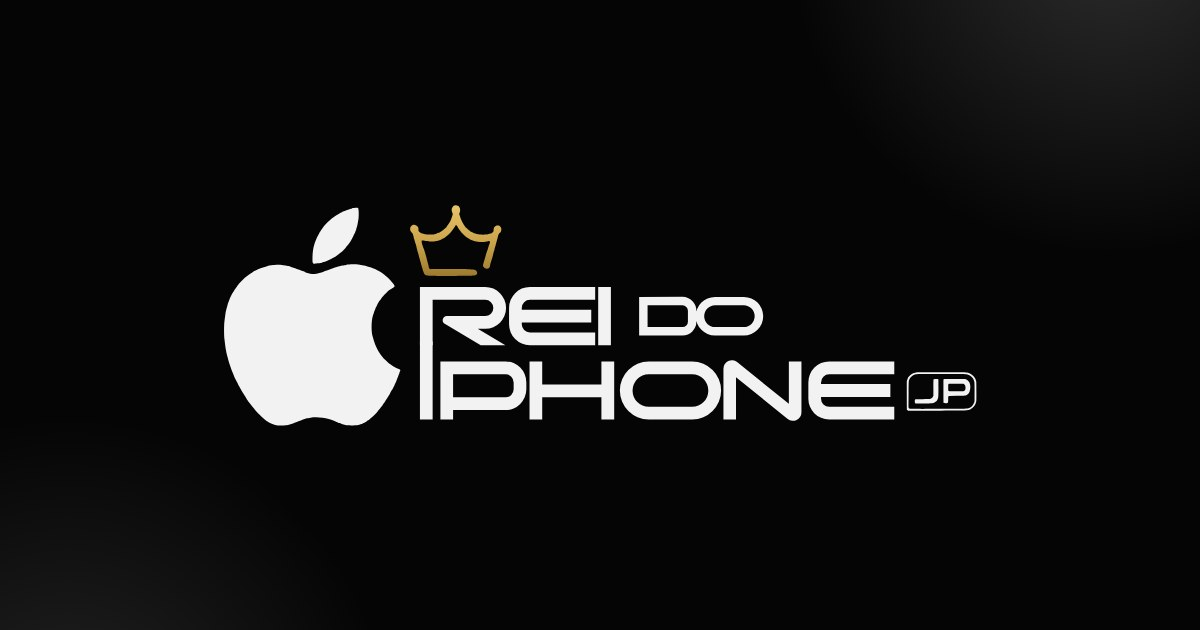
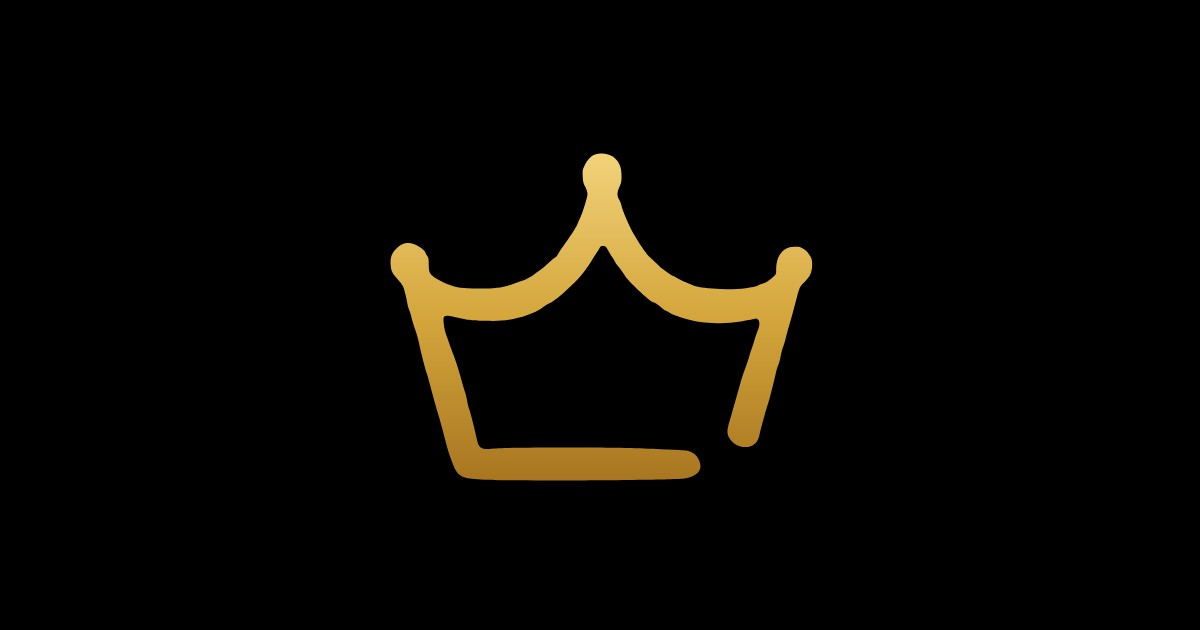
Capa de prévia do link com a coroa e URL de produção
- og-image.jpg: coroa dourada do logo sobre fundo preto (1200x630)
- SITE_URL trocada para https://reidoiphonejp.vercel.app em canonical,
  Open Graph, JSON-LD, robots.txt e sitemap.xml

Claude-Session: https://claude.ai/code/session_0127fLc5vFKDwvwHbcze3r4v

Changed region(s): [[0.185, 0.2413, 0.8325, 0.7841], [0.8017, 0.0, 1.0, 0.1508], [0.0308, 0.9952, 0.0925, 1.0]]

diff --git a/index.html b/index.html
@@ -5,8 +5,8 @@
   <meta name="viewport" content="width=device-width, initial-scale=1, viewport-fit=cut">
 
   <!-- =========================================================
-       SITE_URL: https://TROCAR-PELO-LINK-DO-VERCEL.vercel.app
-       TODO: PREENCHER depois do deploy. Rode na raiz do projeto:
+       SITE_URL: https://reidoiphonejp.vercel.app
+       Para trocar (ex.: domínio próprio), rode na raiz do projeto:
          node scripts/set-site-url.mjs https://SEU-PROJETO.vercel.app
        O script troca a URL em todos os arquivos de uma vez
        (index.html, robots.txt, sitemap.xml, site.config.json).
@@ -15,7 +15,7 @@
   <title>Rei do iPhone JP | iPhone em João Pessoa em até 21x</title>
   <meta name="description" content="Compro, vendo e troco seu iPhone em João Pessoa desde 2019. Toda a linha Apple em até 21x, com ponto físico e entrega gratuita em toda a cidade.">
   <meta name="robots" content="index, follow, max-image-preview:large">
-  <link rel="canonical" href="https://TROCAR-PELO-LINK-DO-VERCEL.vercel.app/">
+  <link rel="canonical" href="https://reidoiphonejp.vercel.app/">
 
   <!-- Open Graph / Twitter -->
   <meta property="og:type" content="website">
@@ -23,16 +23,18 @@
   <meta property="og:site_name" content="Rei do iPhone JP">
   <meta property="og:title" content="Rei do iPhone JP | iPhone em João Pessoa em até 21x">
   <meta property="og:description" content="Compro, vendo e troco seu iPhone em João Pessoa desde 2019. Toda a linha Apple em até 21x, com ponto físico e entrega gratuita em toda a cidade.">
-  <meta property="og:url" content="https://TROCAR-PELO-LINK-DO-VERCEL.vercel.app/">
-  <!-- TODO: PREENCHER (opcional): /og-image.jpg é provisório, gerado a partir do logo. Substitua por uma arte própria em 1200x630 px com o mesmo nome. -->
-  <meta property="og:image" content="https://TROCAR-PELO-LINK-DO-VERCEL.vercel.app/og-image.jpg">
+  <meta property="og:url" content="https://reidoiphonejp.vercel.app/">
+  <!-- Capa de prévia do link (WhatsApp, Instagram etc.): coroa do logo sobre fundo preto, 1200x630 px. -->
+  <meta property="og:image" content="https://reidoiphonejp.vercel.app/og-image.jpg">
+  <meta property="og:image:secure_url" content="https://reidoiphonejp.vercel.app/og-image.jpg">
+  <meta property="og:image:type" content="image/jpeg">
   <meta property="og:image:width" content="1200">
   <meta property="og:image:height" content="630">
-  <meta property="og:image:alt" content="Logo da Rei do iPhone JP sobre fundo preto">
+  <meta property="og:image:alt" content="Coroa dourada da Rei do iPhone JP sobre fundo preto">
   <meta name="twitter:card" content="summary_large_image">
   <meta name="twitter:title" content="Rei do iPhone JP | iPhone em João Pessoa em até 21x">
   <meta name="twitter:description" content="Compro, vendo e troco seu iPhone em João Pessoa desde 2019. Toda a linha Apple em até 21x, com ponto físico e entrega gratuita em toda a cidade.">
-  <meta name="twitter:image" content="https://TROCAR-PELO-LINK-DO-VERCEL.vercel.app/og-image.jpg">
+  <meta name="twitter:image" content="https://reidoiphonejp.vercel.app/og-image.jpg">
 
   <!-- Favicons (provisórios, gerados da coroa do logo). TODO: PREENCHER (opcional) substituindo os arquivos na raiz do projeto com os mesmos nomes. -->
   <link rel="icon" href="/favicon.ico" sizes="32x32">
@@ -61,11 +63,11 @@
   {
     "@context": "https://schema.org",
     "@type": "Store",
-    "@id": "https://TROCAR-PELO-LINK-DO-VERCEL.vercel.app/#loja",
+    "@id": "https://reidoiphonejp.vercel.app/#loja",
     "name": "Rei do iPhone JP",
-    "url": "https://TROCAR-PELO-LINK-DO-VERCEL.vercel.app/",
-    "logo": "https://TROCAR-PELO-LINK-DO-VERCEL.vercel.app/assets/img/logo/rei-do-iphone-jp.svg",
-    "image": "https://TROCAR-PELO-LINK-DO-VERCEL.vercel.app/og-image.jpg",
+    "url": "https://reidoiphonejp.vercel.app/",
+    "logo": "https://reidoiphonejp.vercel.app/assets/img/logo/rei-do-iphone-jp.svg",
+    "image": "https://reidoiphonejp.vercel.app/og-image.jpg",
     "description": "Compro, vendo e troco seu iPhone. Toda a linha Apple com parcelamento em até 21x, ponto físico e entrega gratuita em toda João Pessoa.",
     "telephone": "+55 83 98852-6446",
     "foundingDate": "2019",

diff --git a/README.md b/README.md
@@ -40,7 +40,6 @@ Abra o endereço mostrado. (Abrir o `index.html` direto pelo arquivo não funcio
 | Item | Arquivo e linha | O que fazer |
 |---|---|---|
 | URL do site | `index.html` linhas 8, 18, 26, 28, 35, 64, 66, 67, 68 · `robots.txt` linha 6 · `sitemap.xml` linha 5 · `site.config.json` linha 2 | Depois do deploy, rode `node scripts/set-site-url.mjs https://SEU-PROJETO.vercel.app` (troca tudo de uma vez) |
-| Imagem de compartilhamento | `/og-image.jpg` (referenciada em `index.html` linhas 27 e 28) | Opcional: substituir por arte própria 1200x630 px com o mesmo nome. A atual é provisória, feita do logo |
 | Favicons | raiz: `favicon.ico` (32x32), `favicon.svg`, `apple-touch-icon.png` (180x180), `icon-192.png`, `icon-512.png` (comentário em `index.html` linha 37) | Opcional: substituir mantendo nomes e tamanhos. Os atuais são provisórios, feitos da coroa |
 | Endereço, CEP, horário, mapa | `index.html` linha 83 (bloco comentado do JSON-LD) | Preencher quando tiver: rua e número, CEP, coordenadas e horário de funcionamento |
 
